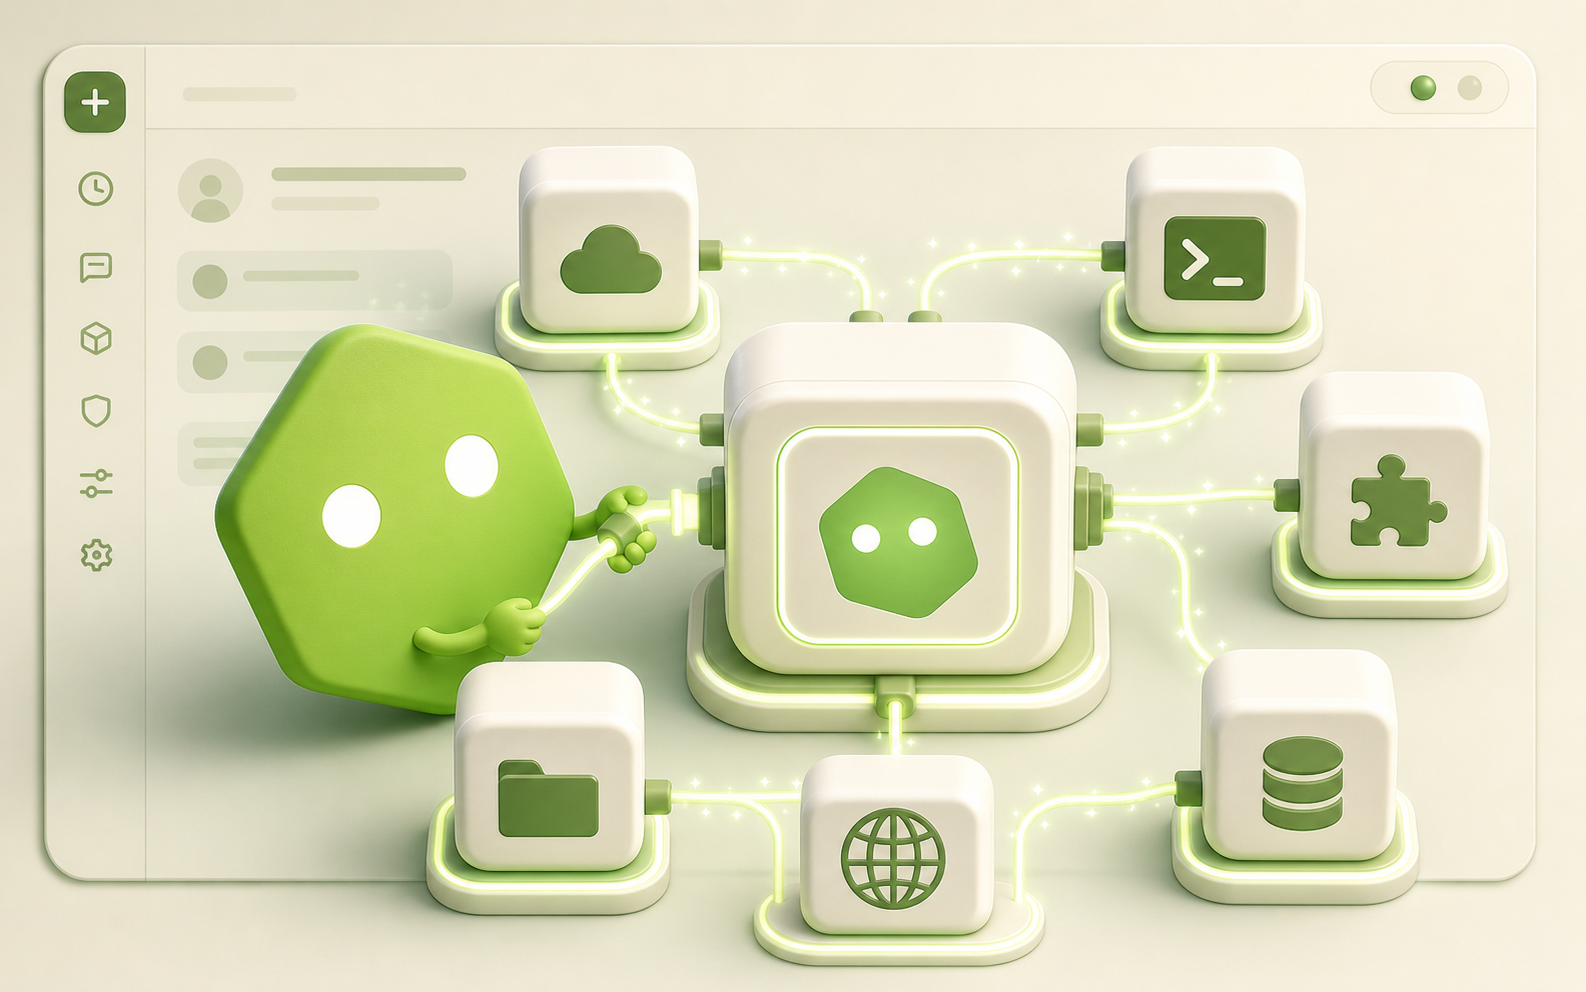
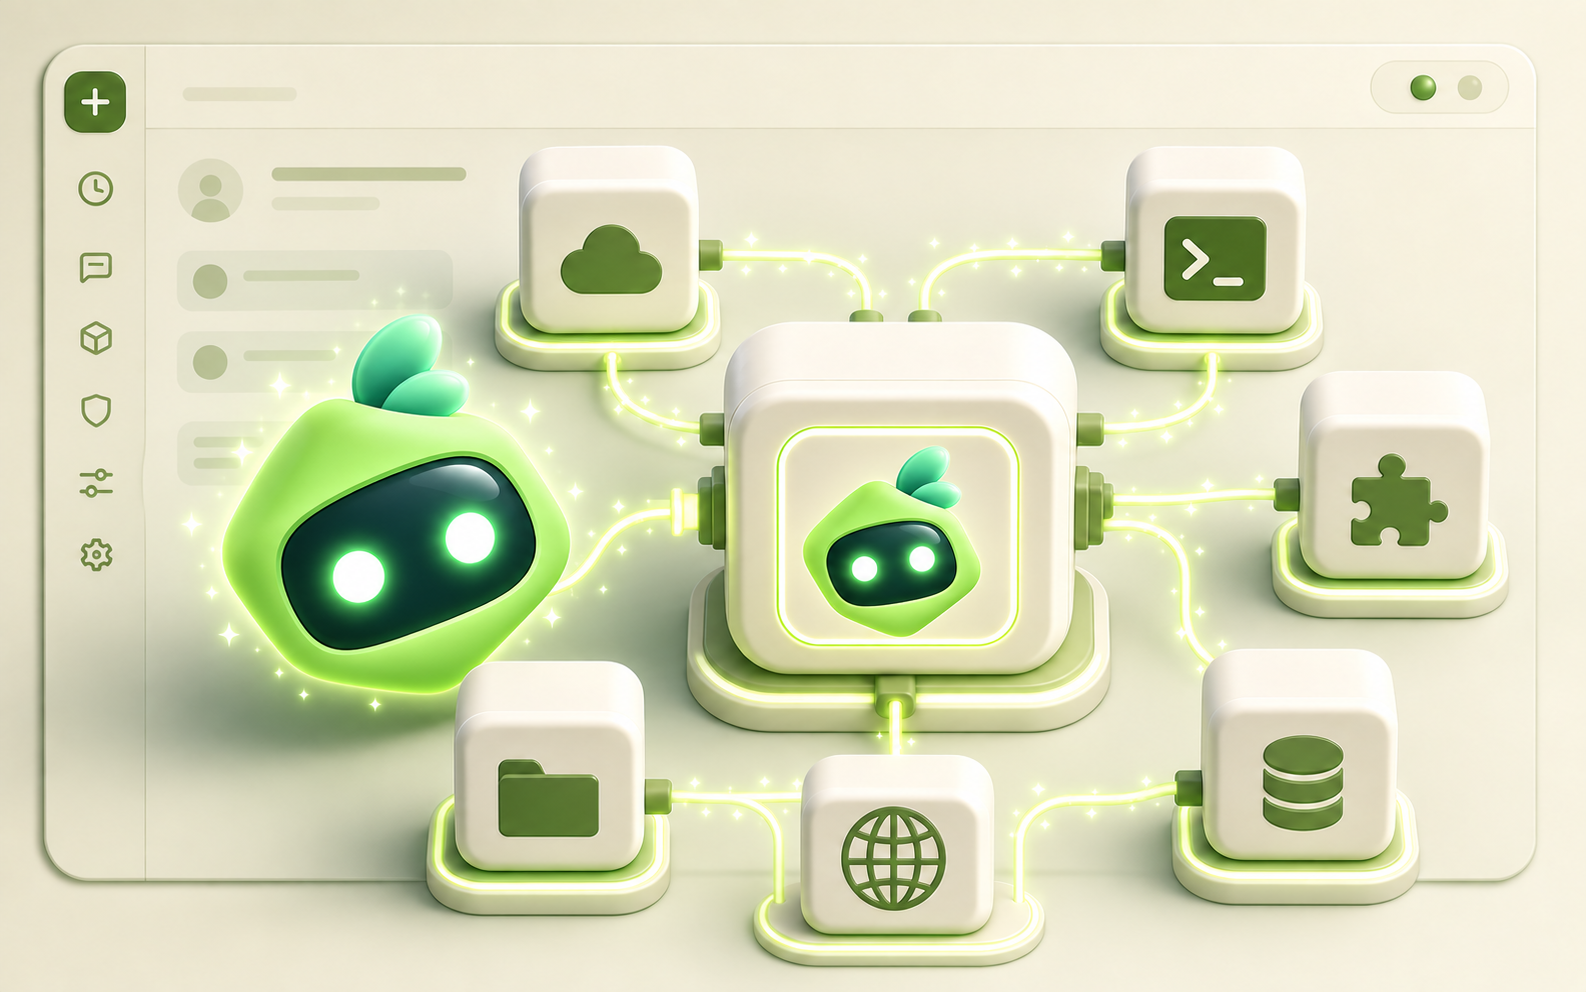
Refresh README feature illustrations and current capabilities

diff --git a/README.md b/README.md
@@ -18,7 +18,7 @@ Monaw currently targets Windows. macOS has not been tested yet.
 - **Local control.** Runtime data, memory files, logs, browser artifacts, and the default workspace stay under your local Monaw folder.
 - **Choose your model connection.** Sign in with a ChatGPT account through the Codex SDK, or use OpenAI or Google Gemini through your own API keys.
 - **Context discipline.** Memory, context tracking, and compression help keep useful knowledge available without blindly stuffing every conversation.
-- **Tool permissions.** Choose sandbox, approval, and access settings before the agent performs higher-impact actions.
+- **Four permission modes.** Use Default, Full Access, Auto Review, or a Custom config. Routine browsing works without repeated approvals.
 - **Windows-friendly setup.** The one-click setup prepares Python, Node, backend packages, and frontend packages for normal Windows users.
 
 ## What Monaw Can Do
@@ -28,48 +28,48 @@ Monaw currently targets Windows. macOS has not been tested yet.
     <td width="50%" valign="top">
       <img src="docs/assets/use-cases/multi-model-chat.png" alt="Monaw mascot chatting with multiple model options" width="100%" />
       <br />
-      <strong>Chat With Your Preferred Models</strong>
+      <strong>Choose Your Model</strong>
       <br />
-      Sign in with a ChatGPT account or use OpenAI or Google Gemini API keys, while keeping conversations in one local desktop workspace.
+      Sign in with ChatGPT or use OpenAI or Gemini API keys. Switch models and reasoning effort from the chat composer.
     </td>
     <td width="50%" valign="top">
       <img src="docs/assets/use-cases/desktop-automation.png" alt="Monaw mascot automating browser files and local commands" width="100%" />
       <br />
-      <strong>Work Inside Your Windows Desktop</strong>
+      <strong>Work With Files, Apps, and Chrome</strong>
       <br />
-      Ask Monaw to inspect files, run local commands, automate browser flows, and coordinate computer-use actions with visible tool access.
+      Read and edit files, run commands, and control Windows apps. Monaw launches your local Chrome profile with your existing logins and bookmarks.
     </td>
   </tr>
   <tr>
     <td width="50%" valign="top">
       <img src="docs/assets/use-cases/memory-context.png" alt="Monaw mascot organizing memory and compressed context" width="100%" />
       <br />
-      <strong>Remember Useful Context</strong>
+      <strong>Keep Useful Context</strong>
       <br />
-      Store long-term memory locally and use context tracking plus compression so the agent can stay helpful without wasting tokens.
+      Local memory, context tracking, and conversation compression help Monaw keep useful information available during longer tasks.
     </td>
     <td width="50%" valign="top">
       <img src="docs/assets/use-cases/scheduled-tasks.png" alt="Monaw mascot setting up scheduled task automation" width="100%" />
       <br />
-      <strong>Schedule Follow-Up Work</strong>
+      <strong>Schedule Tasks</strong>
       <br />
-      Run scheduled tasks with history for reminders, recurring checks, delayed follow-ups, and automation that should happen later.
+      Set reminders, recurring checks, and tasks for later. View scheduled runs and their results in the app.
     </td>
   </tr>
   <tr>
     <td width="50%" valign="top">
       <img src="docs/assets/use-cases/mcp-integrations.png" alt="Monaw mascot connecting MCP and external tool blocks" width="100%" />
       <br />
-      <strong>Connect Tools Through MCP</strong>
+      <strong>Connect More Tools</strong>
       <br />
-      Add MCP servers from Settings, use browser automation through <code>browser-use</code>, and optionally connect a Telegram bot bridge.
+      Add MCP servers, including Chrome DevTools for browser control. An optional Telegram bridge lets you send Monaw tasks remotely.
     </td>
     <td width="50%" valign="top">
       <img src="docs/assets/use-cases/permissions-local-control.png" alt="Monaw mascot guarding local permissions and sandbox controls" width="100%" />
       <br />
-      <strong>Control What The Agent Can Do</strong>
+      <strong>Choose How Actions Are Approved</strong>
       <br />
-      Choose permissions, approvals, access grants, and sandbox settings before Monaw performs higher-impact actions.
+      Default asks before changes and commands. Full Access runs without action prompts. Auto Review uses AI to review actions. Custom reads your config file. Optional Docker isolation contains shell commands.
     </td>
   </tr>
 </table>
@@ -153,13 +153,12 @@ Open Settings in Monaw Agent and configure only the services you use:
 - Tavily API key, if using web search tools.
 - Telegram bot token and allowlist, if using Telegram.
 - Model provider, model, and reasoning effort in the chat composer.
-- Permission profile and access grants.
+- Permission mode: Default, Full Access, Auto Review, or Custom. Custom rules are edited in the config file shown in Settings.
 - Sandbox mode.
-- Browser automation mode.
+- Browser choice. Your local Chrome profile is the default; Monaw handles launch and connection.
 - MCP servers.
-- Memory settings.
 
-Normal desktop use does not require editing `.env`. The Settings screen saves runtime configuration locally.
+Normal desktop use does not require editing `.env`. Settings saves runtime configuration locally. Advanced Custom permission rules use the config file rather than individual setup switches.
 
 ## Daily Use
 
@@ -202,7 +201,7 @@ You can change the main data folder with `MONAW_HOME` or `AGENT_HOME`, the runti
 
 ## Feature Docs
 
-Memory is configured in Settings -> Memory. Memory files are local markdown files and can be edited from the app. See [docs/memory.md](docs/memory.md).
+Memory works in the background and is hidden from Settings. Memory files are local markdown files. See [docs/memory.md](docs/memory.md) for advanced configuration.
 
 Browser automation is configured in Settings -> Browser. See [docs/browser-automation.md](docs/browser-automation.md).
 
@@ -212,7 +211,7 @@ Scheduled tasks are configured in the app when scheduling is enabled. See [docs/
 
 Telegram is optional. Keep the bot token private and keep the allowlist narrow. See [docs/telegram.md](docs/telegram.md).
 
-Permissions, approvals, access grants, and sandbox settings are configured in Settings. See [docs/permissions.md](docs/permissions.md) and [docs/sandboxing.md](docs/sandboxing.md).
+Choose one of four permission modes in Settings or the chat composer. Custom rules are configured only in the runtime config file; sandbox options remain in Settings. Default, Full Access, and Auto Review still enforce protected-path and sensitive-app restrictions. See [docs/permissions.md](docs/permissions.md) and [docs/sandboxing.md](docs/sandboxing.md).
 
 The backend API is a privileged local control plane. The desktop application
 authenticates every `/api` request with a short-lived session and binds the

diff --git a/docs/memory.md b/docs/memory.md
@@ -19,7 +19,7 @@ Do not save secrets, tokens, passwords, one-off requests, volatile facts, or sen
 
 ## User Controls
 
-Memory is configured in Settings -> Memory.
+Memory runs in the background and is hidden from Settings. Advanced configuration is stored in the `memory` section of the runtime `settings.json` file; its location is shown on the Custom permission page. Existing memory files can also be edited directly.
 
 The important settings are:
 
